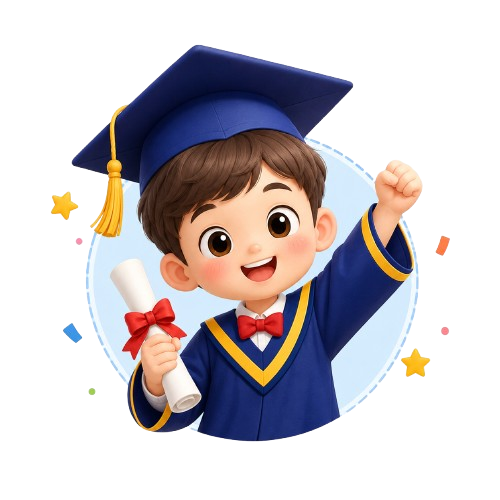
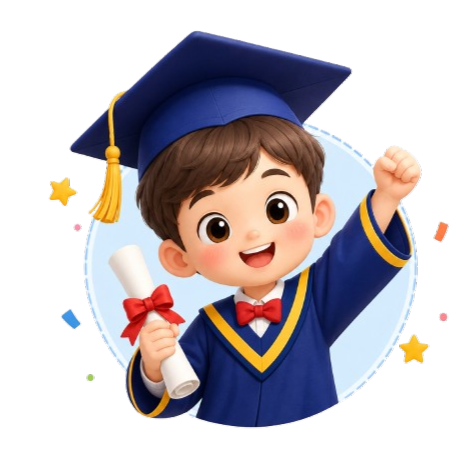
responsive

diff --git a/frontend/src/main.js b/frontend/src/main.js
@@ -23393,7 +23393,7 @@ function syncInstallAppButtons() {
           : "pending"
         : "unsupported";
 
-    button.disabled = installed || (supported && !hasPrompt);
+    button.disabled = installed;
 
     if (installed) {
       button.title = "Ứng dụng đã được cài đặt";
@@ -23420,10 +23420,10 @@ function syncInstallAppButtons() {
       return;
     }
 
-    button.title = "Chờ trình duyệt sẵn sàng cài đặt ứng dụng";
+    button.title = "Ứng dụng sẽ khả dụng để cài đặt sau khi trình duyệt sẵn sàng";
     button.setAttribute(
       "aria-label",
-      "Chờ trình duyệt sẵn sàng cài đặt ứng dụng",
+      "Ứng dụng sẽ khả dụng để cài đặt sau khi trình duyệt sẵn sàng",
     );
   });
 }
@@ -23448,8 +23448,9 @@ async function handleInstallAppRequest() {
   const installPrompt = deferredInstallPrompt;
 
   if (!installPrompt) {
+    console.log("[EduKids][pwa] beforeinstallprompt not available yet");
     showToast(
-      "Trình duyệt chưa sẵn sàng hiển thị hộp thoại cài đặt. Vui lòng thử lại sau.",
+      "Ứng dụng sẽ khả dụng để cài đặt sau khi bạn sử dụng website thêm một lúc.",
       "error",
     );
     return;
@@ -23479,6 +23480,8 @@ function bindPwaInstallEventsOnce() {
   syncInstallAppButtons();
 
   window.addEventListener("beforeinstallprompt", (event) => {
+    console.log("beforeinstallprompt fired");
+    console.log(event);
     event.preventDefault();
     deferredInstallPrompt = event;
     pwaInstallState.supported = true;
@@ -23487,6 +23490,7 @@ function bindPwaInstallEventsOnce() {
   });
 
   window.addEventListener("appinstalled", () => {
+    console.log("appinstalled fired");
     deferredInstallPrompt = null;
     pwaInstallState.installed = true;
     syncInstallAppButtons();

diff --git a/frontend/src/style.css b/frontend/src/style.css
@@ -15968,6 +15968,41 @@ body.admin-content-drawer-open {
     padding: 16px;
   }
 
+  #subjects .quiz-toolbar {
+    grid-template-columns: repeat(2, minmax(0, 1fr));
+    grid-template-areas:
+      "load load"
+      "grade subject";
+    gap: 12px;
+    padding: 14px;
+  }
+
+  #subjects .quiz-toolbar .quiz-filter {
+    min-width: 0;
+  }
+
+  #subjects .quiz-toolbar .quiz-filter:nth-of-type(1) {
+    grid-area: grade;
+  }
+
+  #subjects .quiz-toolbar .quiz-filter:nth-of-type(2) {
+    grid-area: subject;
+  }
+
+  #subjects .quiz-toolbar .quiz-load-btn {
+    grid-area: load;
+    width: 100%;
+    min-height: 48px;
+    padding: 0 14px;
+    border-radius: 14px;
+  }
+
+  #subjects .quiz-toolbar .quiz-filter select {
+    min-height: 48px;
+    border-radius: 14px;
+    padding: 0 14px;
+  }
+
   .home-content-inner {
     padding: 16px;
   }
